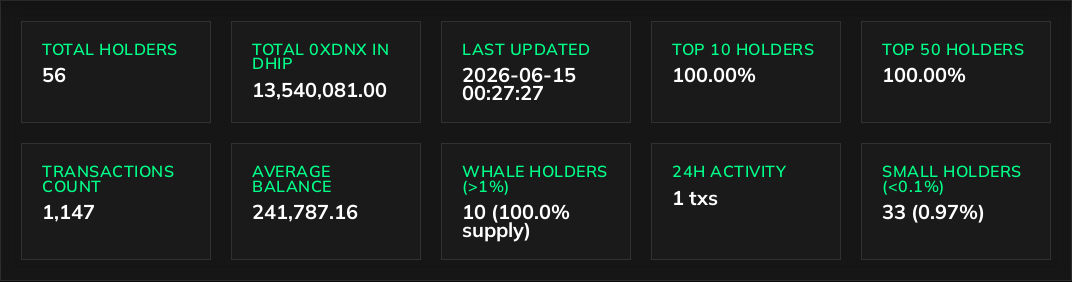
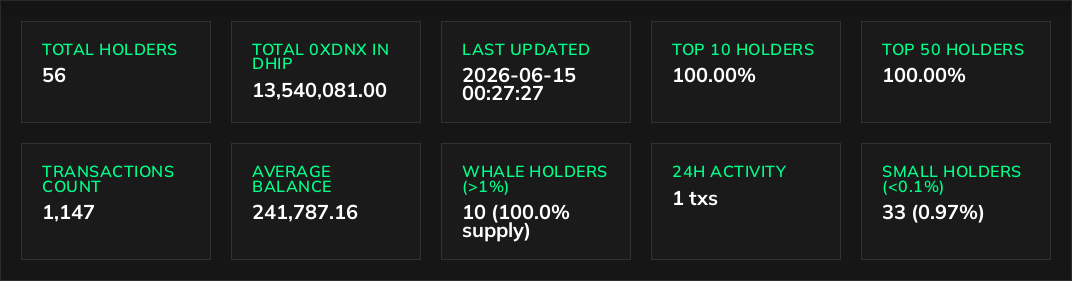
fix: slice section screenshots from hero PNG (pixel-identical crops)
Crop summary-stats, recent-transactions, and holder-rankings from live-dashboard; README img width 860 to avoid stretched GitHub layout.

diff --git a/README.md b/README.md
@@ -22,19 +22,19 @@
 
 Above the table, a **stats band** shows pool totals — holder count, aggregate 0xDNX in DHIP, top-holder concentration metrics, whale counts, and **24h deposit/withdraw activity**. Percentages in the table are easier to read when the denominator is visible in the same glance.
 
-![Summary statistics — holders, pool totals, whales, and 24h activity](assets/summary-stats.png)
+<img src="assets/summary-stats.png" alt="Summary statistics — holders, pool totals, whales, and 24h activity" width="860" />
 
 ## Recent transactions
 
 A **recent activity panel** lists deposits and withdrawals: time, direction, addresses, amount, and transaction links. Rankings show *state*; this panel shows *what changed* — large entries, new wallets, exits.
 
-![Recent transactions — deposits and withdrawals with Etherscan links](assets/recent-transactions.png)
+<img src="assets/recent-transactions.png" alt="Recent transactions — deposits and withdrawals with Etherscan links" width="860" />
 
 ## Ranked holder table
 
 The main view is a **ranked table**: position, address (truncated, linked to Etherscan), formatted balance, and **exact percentage of total 0xDNX in the pool**. Default page size is configurable (typically 30 rows); **Load more** fetches the next ranks without reloading the page. The table auto-refreshes on an interval so rankings stay current during active trading days.
 
-![Ranked holder table — balance and pool percentage by address](assets/holder-rankings.png)
+<img src="assets/holder-rankings.png" alt="Ranked holder table — balance and pool percentage by address" width="860" />
 
 ## Live page and search engines
 